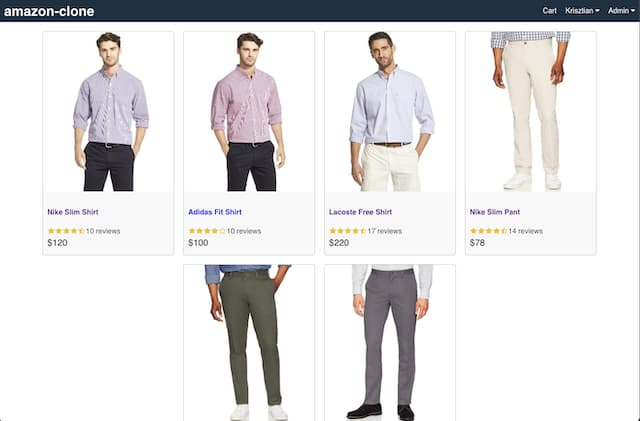
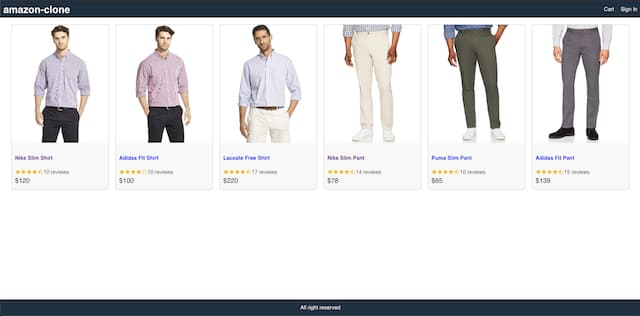
eddit img styles and lest proj name

diff --git a/src/pages/_projects.scss b/src/pages/_projects.scss
@@ -44,11 +44,14 @@
       & > a img {
         display: block;
         width: 100%;
-        height: 100%;
-        object-fit: cover;
+        height: 25%;
         overflow: hidden;
         border-radius: 2rem;
         box-shadow: 0 5px 15px 5px $color-black;
+
+        @include respound(tab-land) {
+          height: 100%;
+        }
       }
     }
     & > .project-desc {
